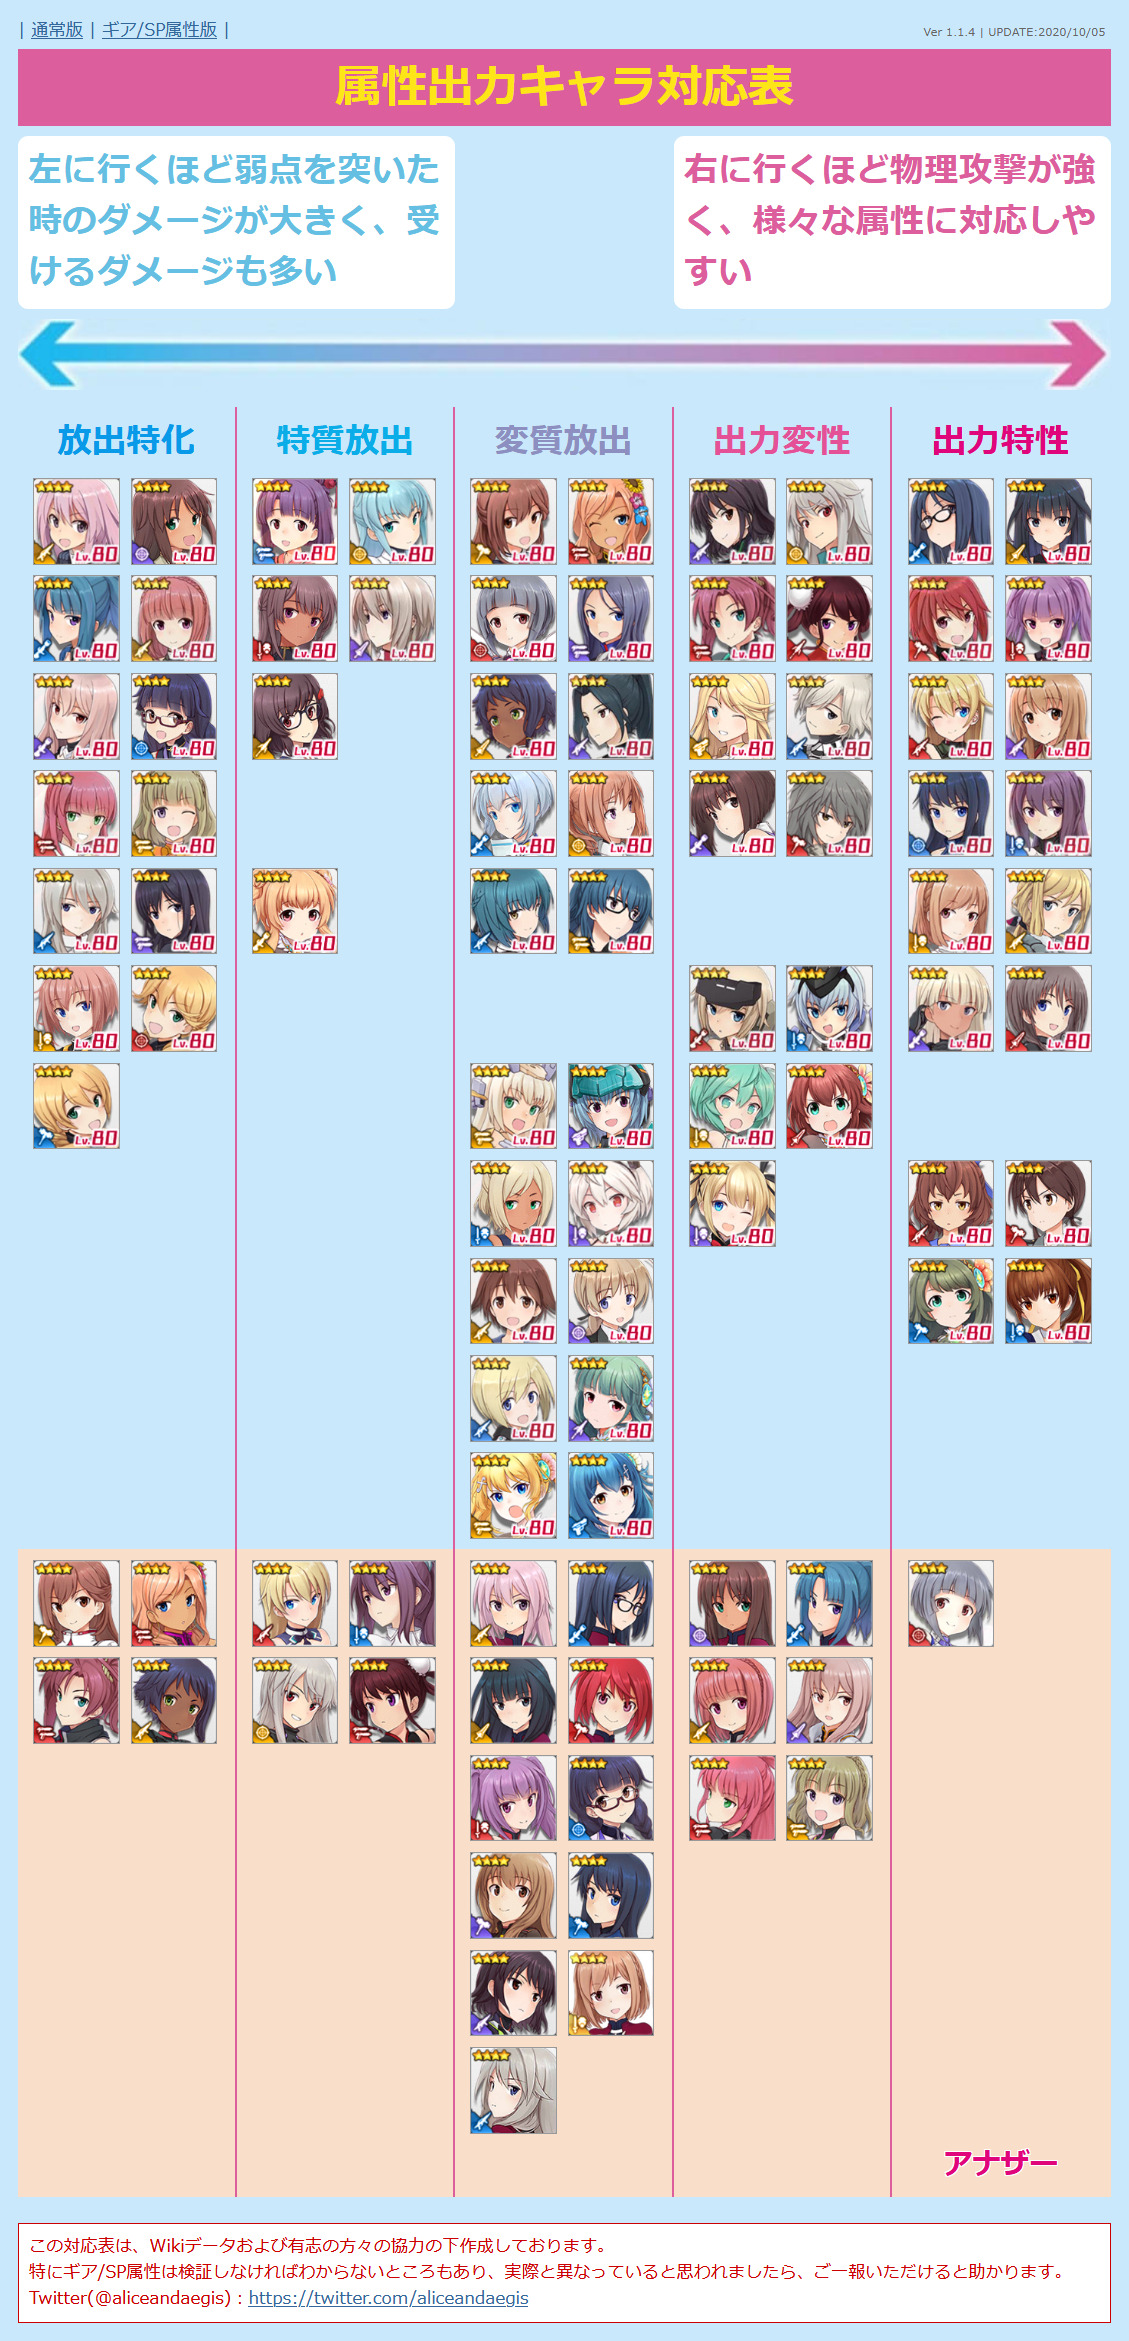
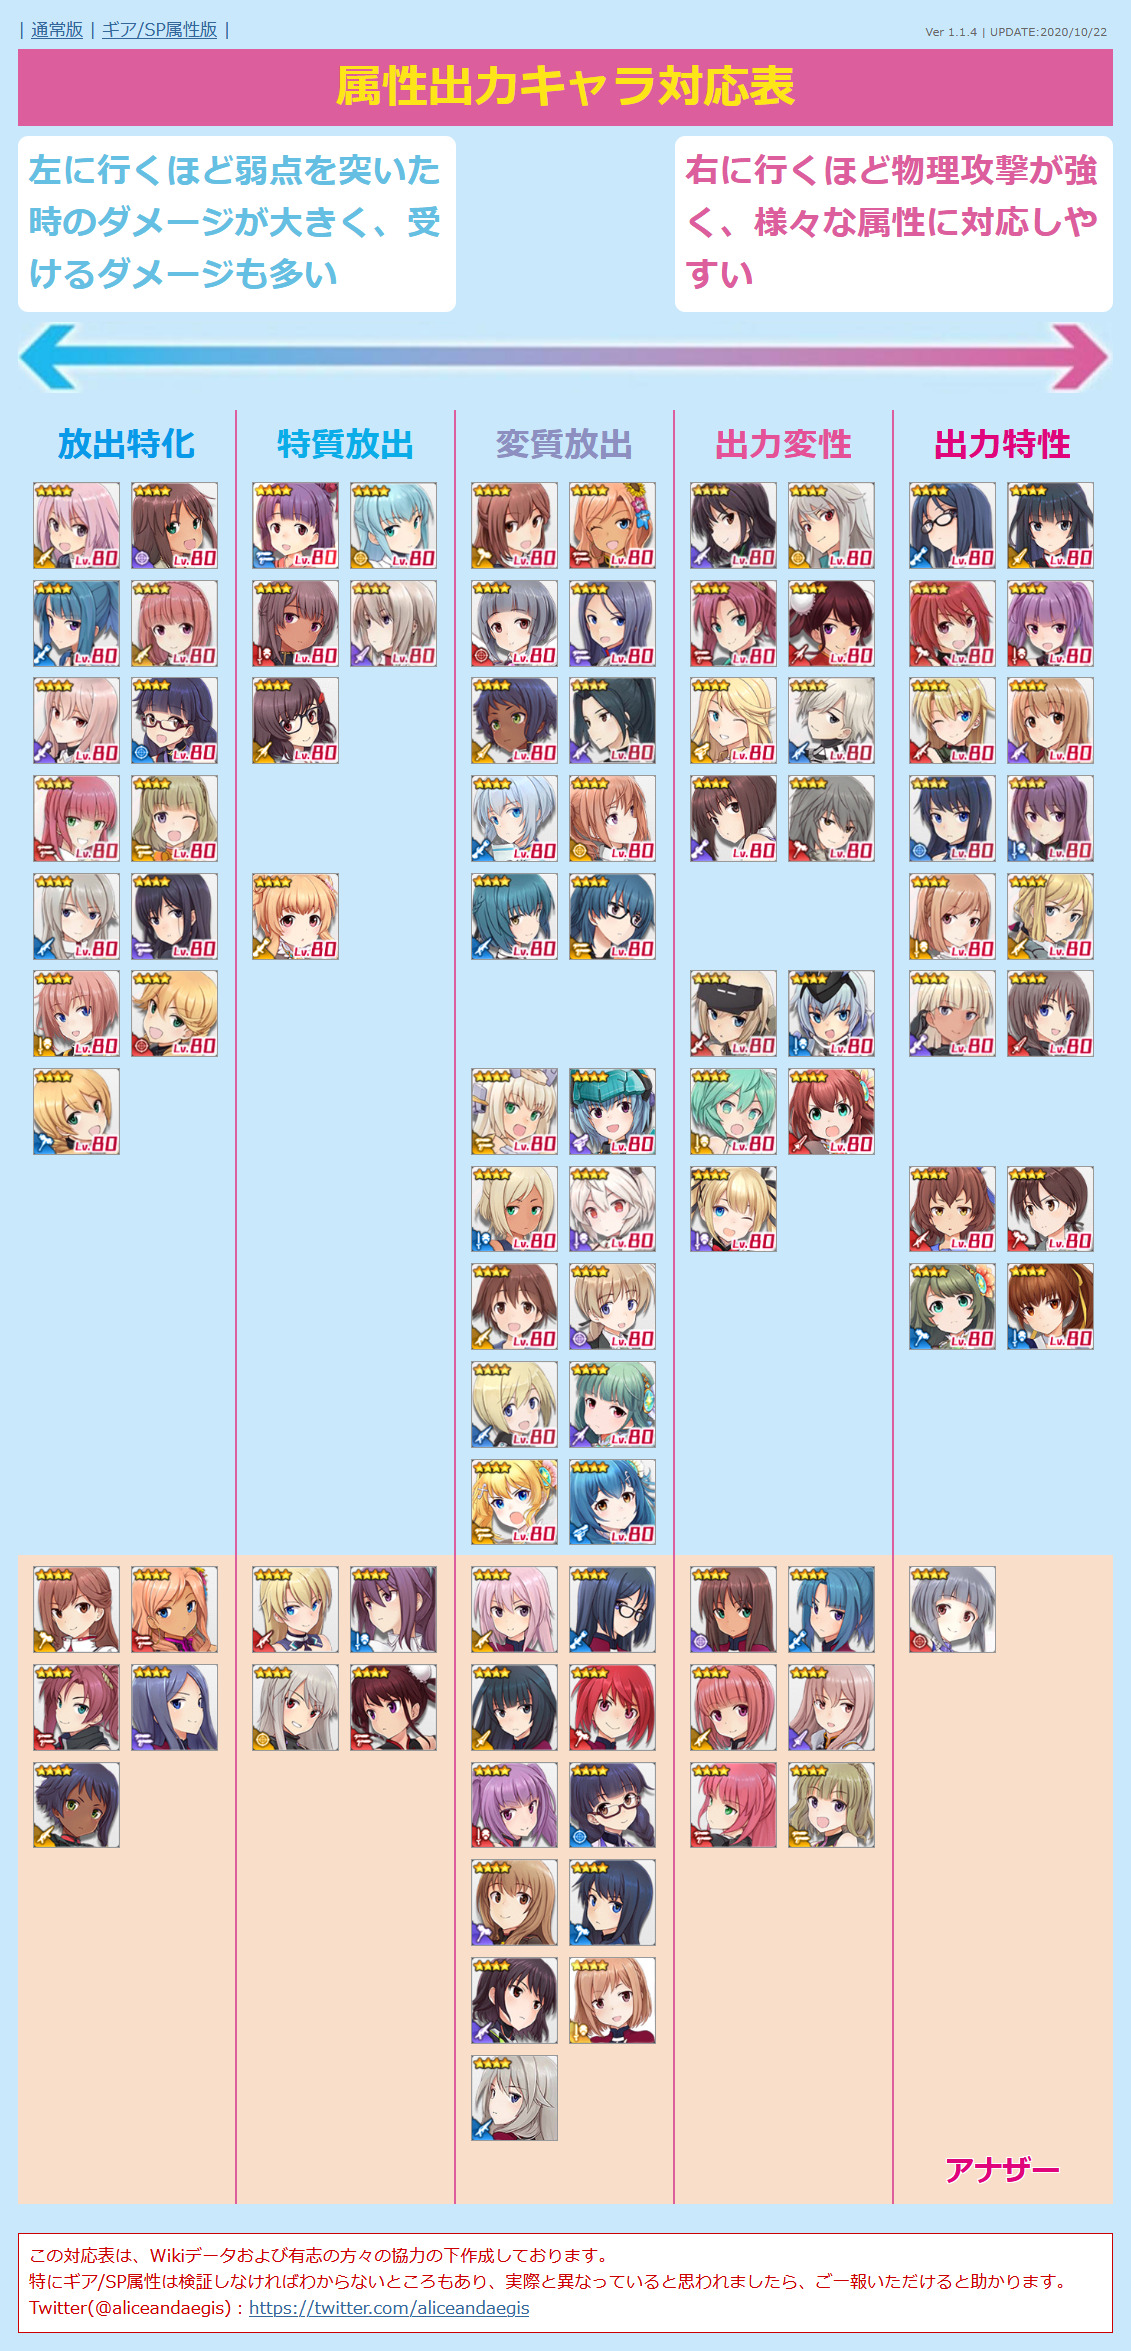
UPDATE chara data & image
・アナザーキャラ 仁紀藤 奏/雲耀の画像を更新
・紺堂地衛理、州天頃椎奈、仁紀藤奏の派生を追記(暫定)

diff --git a/alice.html b/alice.html
@@ -12,7 +12,7 @@
   <script>
 
 /* 更新情報 必要に応じて書き換えてください */
-  var version = "Ver 1.1.4 | UPDATE:2020/10/05";
+  var version = "Ver 1.1.4 | UPDATE:2020/10/22";
 
 /*
   jsonファイルを外部に設置すると単にHTMLファイルを開いたときに動作しなくなるので当面はHTMLファイル内に
@@ -32,6 +32,7 @@
   equip4   = ボトムススキル：1=実弾、2=エネルギー弾、3=斬撃、4=打撃、5=補助/回復
   sp       = ボトムススキル：1=実弾、2=エネルギー弾、3=斬撃、4=打撃、5=補助/回復
   ※情報不足でわからないところは ?=不明
+  ※派生は/記号の後に数字などを記述（/が派生アイコンになる）
   ※K.I.S.S.で追加される属性は K の文字追加した後に 1～5 を記述（暫定）
 
   attr     = 1=電撃属性、2=重力属性、3=焼夷属性、4=冷撃属性
@@ -700,7 +701,7 @@
       "src": "normal-kanade.png",
       "name": "仁紀藤 奏",
       "equip1": "2",
-      "equip2": "3",
+      "equip2": "3/3?",
       "equip3": "2",
       "equip4": "5",
       "sp": "4",
@@ -709,13 +710,27 @@
       "category": ""
     },
     {
+      "id": "24",
+      "type": "1",
+      "src": "another-kanade.png",
+      "name": "仁紀藤 奏 / 雲耀",
+      "equip1": "2",
+      "equip2": "3/3?",
+      "equip3": "2",
+      "equip4": "5",
+      "sp": "245?",
+      "attr": "2",
+      "link": "https://wikiwiki.jp/alicegear/%E4%BB%81%E7%B4%80%E8%97%A4%E5%A5%8F%E9%9B%B2%E8%80%80",
+      "category": "10"
+    },
+    {
       "id": "25",
       "type": "5",
       "src": "normal-shiina.png",
       "name": "州天頃 椎奈",
       "equip1": "1",
-      "equip2": "4",
-      "equip3": "3",
+      "equip2": "4/4?",
+      "equip3": "3/3?",
       "equip4": "25",
       "sp": "4",
       "attr": "1",
@@ -728,8 +743,8 @@
       "src": "another-shiina.png",
       "name": "州天頃 椎奈 / 玉響",
       "equip1": "1",
-      "equip2": "4",
-      "equip3": "3",
+      "equip2": "4/4?",
+      "equip3": "3/3?",
       "equip4": "25",
       "sp": "45?",
       "attr": "1",
@@ -741,7 +756,7 @@
       "type": "1",
       "src": "normal-chieri.png",
       "name": "紺堂 地衛理",
-      "equip1": "2",
+      "equip1": "2/2?",
       "equip2": "3",
       "equip3": "2",
       "equip4": "5",
@@ -755,7 +770,7 @@
       "type": "3",
       "src": "another-chieri.png",
       "name": "紺堂 地衛理 / 晨星",
-      "equip1": "2",
+      "equip1": "2/2?",
       "equip2": "3",
       "equip3": "2",
       "equip4": "5",
